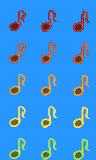
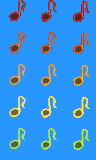
melody

Changed region(s): [[0.75, 0.0, 0.9375, 1.0], [0.4062, 0.0, 0.5938, 1.0], [0.0938, 0.0, 0.2812, 1.0]]

diff --git a/src/Stave.cpp b/src/Stave.cpp
@@ -7,12 +7,34 @@ Stave::Stave(void)
 {
 	add_sprite_rect("lines",0,0,400,32);
 	add_sprite_rect("lines",0,32,400,32);
-	setPosition(0,32*PX);
 }
 
 
 Stave::~Stave(void)
 {
+}
+
+void Stave::update(void){
+	Sprite::update();
+
+	if (KBD::JustPressed(KBD::KEY_UP)) {
+		selectedPitch--;
+		if (selectedPitch < 0) selectedPitch = 4;
+	}
+	if (KBD::JustPressed(KBD::KEY_DOWN)) {
+		selectedPitch++;
+		if (selectedPitch > 4) selectedPitch = 0;
+	}
+
+	setPosition(0,(selectedPitch+1)*16*PX);
+
+	if (g_game->getCurrentFrameID()%(FPS/8) == 0) {
+		cur_frame = (cur_frame + 1)%2;
+	}
+
+	if (pulse) {
+		pulseCount+=PX*4;
+	}
 }
 
 void Stave::draw(void)
@@ -34,31 +56,20 @@ void Stave::draw(void)
 	if (pulse) {
 		const rect rcPulse[] = {
 			{ 0,64,32,32}, // 0
-			{32,64,32,32}, // 1
-			{64,64,32,32}, // 2
-			{96,64,32,32}, // 3
-			{64,64,32,32}, // 4
-			{32,64,32,32}  // 5
+			{ 0,64,32,32}, // 1
+			{32,64,32,32}, // 2
+			{64,64,32,32}, // 3
+			{96,64,32,32}, // 4
+			{64,64,32,32}, // 5
+			{32,64,32,32}  // 6
 		};
-		s32 pulseFrame = (pulseCount>>FPSH) / 32;
-		if (pulseFrame > 5) {
+		s32 pulseFrame = (pulseCount>>FPSH) / 24;
+		if (pulseFrame > 6) {
 			pulse = false;
 		} else {
 			const rect& rc = rcPulse[pulseFrame];
 			GFX::blit("lines", rc, pulsePos.x>>FPSH, pulsePos.y>>FPSH);
 		}
-	}
-}
-
-void Stave::update(void){
-	Sprite::update();
-
-	if (g_game->getCurrentFrameID()%(FPS/8) == 0) {
-		cur_frame = (cur_frame + 1)%2;
-	}
-
-	if (pulse) {
-		pulseCount+=PX*8;
 	}
 }
 

diff --git a/src/SND.cpp b/src/SND.cpp
@@ -1,25 +1,43 @@
 #include "SND.h"
 
 ALLEGRO_SAMPLE *SND::s_whistle;
+ALLEGRO_SAMPLE *SND::s_background[] = {NULL, NULL, NULL};
 
+static ALLEGRO_SAMPLE* _loadSample(const char* f) {
+	ALLEGRO_SAMPLE *s = al_load_sample(f);
+	if (s == NULL) {
+		std::cout << "[error] Could not load " << f << std::endl;
+	}
+}
 void SND::load()
 {
-	s_whistle = al_load_sample("sfx/whistle-c.ogg");
+	s_whistle = _loadSample("sfx/whistle-c.ogg");
+	s_background[0] = _loadSample("sfx/background-f.ogg");
+	s_background[1] = _loadSample("sfx/background-g.ogg");
+	s_background[2] = _loadSample("sfx/background-a.ogg");
 }
 
-// obertöne: A B C D E
+// obertöne: E D C B A
 void SND::whistle(int pitch)
 {
 	const float pitch_table[] = {
-		3520.0/4186.0,
-		3951.0/4186.0,
-		4186.0/4186.0,
-		4699.0/4186.0,
-		5274.0/4186.0
+		5274.0/4186.0, // E
+		4699.0/4186.0, // D
+		4186.0/4186.0, // C
+		3951.0/4186.0, // B
+		3520.0/4186.0  // A
 	};
 
 	if (pitch >= 0 && pitch < 5) {
 		al_play_sample(s_whistle, 1.0, 0.0, pitch_table[pitch], ALLEGRO_PLAYMODE_ONCE, NULL);
+	}
+}
+
+// untertöne: F G A
+void SND::background(int pitch)
+{
+	if (pitch >= 0 && pitch < 3) {
+		al_play_sample(s_background[pitch], 1.0, 0.0, 1.0, ALLEGRO_PLAYMODE_ONCE, NULL);
 	}
 }
 

diff --git a/src/Game.cpp b/src/Game.cpp
@@ -120,6 +120,11 @@ void Game::run(void)
             KBD::Update();
 			frameID++;
 
+			if (frameID%120 == 60) {
+				backgroundNote = (backgroundNote + randint(1,3)) % 3;
+				SND::background(backgroundNote);
+			}
+
 			song.update();
 			song.updateNotes();
 			player.update();
@@ -137,16 +142,12 @@ void Game::run(void)
 
 			// DRAW SPRITES
             background.draw();
-
 			player.draw();
 			demon.draw();
-
-          //  stave.draw();
-			song.drawNotes();
-
 			stave.draw();
+			song.drawNotes();
 			particles.draw();
-
+			
 			//filters
 			filterDark.draw();
 			filterFilm.draw();

diff --git a/src/Player.cpp b/src/Player.cpp
@@ -39,12 +39,12 @@ void Player::update(void) {
 	Sprite::update();
 
 	//handle keypress
-	if(KBD::JustPressed(KBD::KEY_ACTION) && state != PUMP) { //just pressed key and state not yet set
+	Stave& stave = g_game->getStave();
+	if(stave.isReady() && KBD::JustPressed(KBD::KEY_ACTION) && state != PUMP) { //just pressed key and state not yet set
 		setState(PUMP);
 		ParticleEmitter& particles = g_game->getParticles();
 		point effectPos = {pos.x + 47*PX, pos.y + 19*PX};
 		particles.addEffect(EFFECT_BLOODSQUIRT, effectPos);
-		Stave& stave = g_game->getStave();
 		stave.startPulse();
 	}
 	

diff --git a/src/Song.cpp b/src/Song.cpp
@@ -1,5 +1,5 @@
-
 #include "Song.h"
+#include "SND.h"
 
 Song::Song(const std::string& _song)
 	:notes(128), song(_song), bpm(120), frames_per_16beat(bpm_to_frames(120)/4)
@@ -69,6 +69,7 @@ void Song::update(void) {
 
 				//TODO play note
 				std::cout << "PLAY " << current_value << std::endl;
+				SND::whistle(note_val);
 
 				Note* available_note;
 				for(std::vector<Note>::iterator it = notes.begin(); it != notes.end(); ++it) {

diff --git a/src/SND.h b/src/SND.h
@@ -2,15 +2,17 @@
 
 #include "sdk.h"
 
-// untertöne: F G A
 class SND
 {
 	public:
 		static void load();
-		// obertöne: 0=A 1=H 2=C 3=D 4=E
+		// obertöne: 0=E 1=D 2=C 3=B 4=A
 		static void whistle(int pitch);
+		// untertöne: 0=F 1=G 2=A
+		static void background(int pitch);
 	protected:
 		static ALLEGRO_SAMPLE* s_whistle;
+		static ALLEGRO_SAMPLE* s_background[];
 	private:
 		SND() {}
 		~SND() {}

diff --git a/src/Stave.h b/src/Stave.h
@@ -14,9 +14,12 @@ public:
 
 	void startPulse(void);
 
+	bool isReady(void) { return !pulse; }
+
 protected:
 	bool pulse;
 	s32 pulseCount;
+	s32 selectedPitch;
 
 
 };

diff --git a/src/Game.h b/src/Game.h
@@ -40,6 +40,8 @@ class Game
 		Player player;
 		Demon demon;
 
+		s32 backgroundNote;
+
         bool paused;
 };
 
